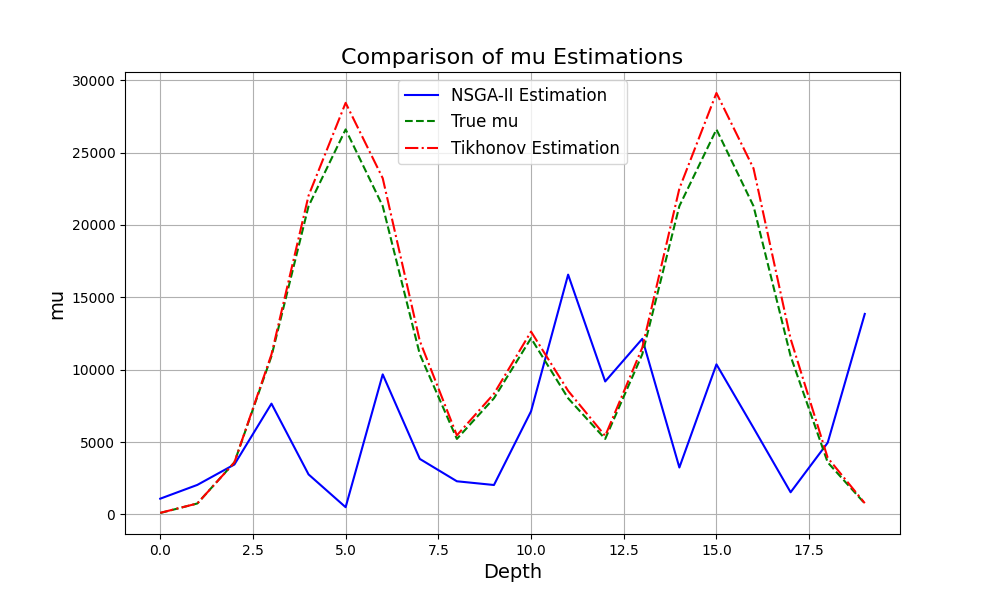
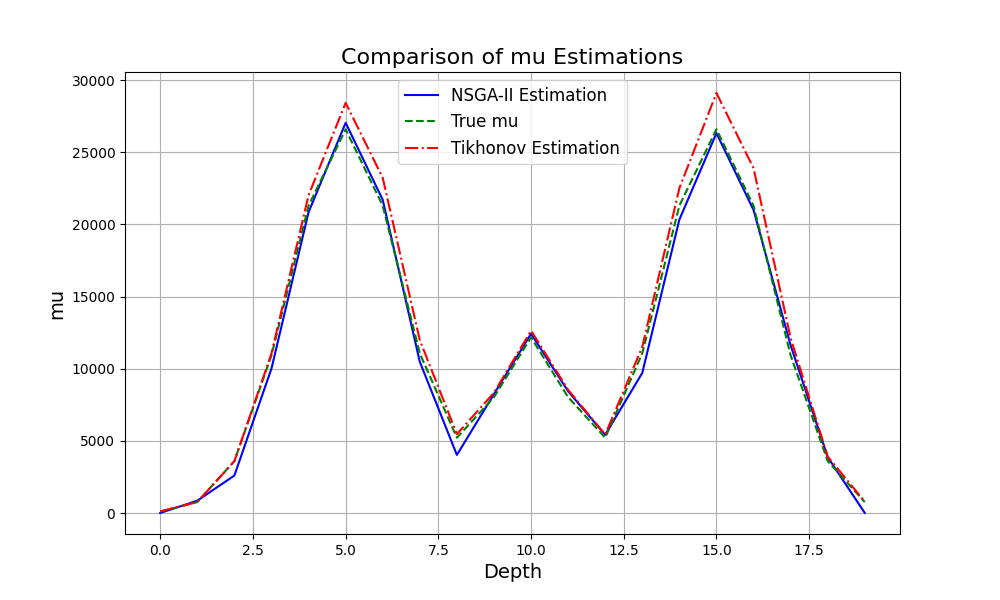
nsga me

diff --git a/simulations_me.py b/simulations_me.py
@@ -1,0 +1,128 @@
+import numpy as np
+import matplotlib.pyplot as plt
+import csv
+from concurrent.futures import ProcessPoolExecutor, as_completed
+from tqdm import tqdm
+from External_lib.rmse import rmse
+from MO.MOP_Definition import ImageReconstructionProblem
+from MO.NSGA_II import NSGA2
+from SSM.Estimation import estimation
+from SSM.Generate_Linear_Model import generate_linear_model
+from SSM.Generate_Measurements import generate_measurements
+from SSM.Generate_SSM_Model import generate_ssm_model
+from SSM.Regularized_Estimation import regularized_estimation
+from SSM.Set_Settings import set_settings
+
+from pymoo.algorithms.moo.nsga3 import NSGA3
+from pymoo.optimize import minimize
+from pymoo.util.ref_dirs import get_reference_directions
+
+# Configuración del modelo
+n_var = 20
+model, PROBE, signal = set_settings(example=1)
+model = generate_ssm_model(model, PROBE)
+MODEL = generate_linear_model(model, signal, PROBE)
+
+# Valores de sigma (σ_w²) de 10^-10 a 10^-1
+sigmas = [0.0, 1e-4, 1e-3, 1e-2, 1e-1, 1.0]
+num_simulations = 1
+
+# Para almacenar los resultados
+avg_rmse_lsq = []
+avg_rmse_nsga2 = []
+avg_rmse_tikhonov = []
+avg_rmse_tikhonov_nsga = []
+
+# Función que corre una simulación
+def run_simulation(i, sigma):
+    # Generar mediciones con el ruido correspondiente
+    SIGNAL = generate_measurements(signal, MODEL, sigma)
+    
+    # MO con NSGA-III
+    problem = ImageReconstructionProblem(MODEL=MODEL, PROBE=PROBE, SIGNAL=SIGNAL, n_var=n_var)
+    # Crear las direcciones de referencia para la optimización
+    
+    nsga2 = NSGA2(generations=500,population_size=100, mutation_rate=0.8, problem=problem)
+
+
+    best_individual_nsga2 = min(nsga2.P_t, key=lambda p: p.values[0])
+    d_est_nsga = best_individual_nsga2.point
+    # Encontrar el índice de la solución con el menor valor en el objetivo 1
+    
+    mu_est_nsga = problem.mo_estimation(d_est_nsga.reshape(20,1))
+    
+    # LSQ
+    ESTIMATION_RESULTS = estimation(MODEL, SIGNAL)
+    mu_est_lsq = ESTIMATION_RESULTS.mu
+
+    # Tikhonov
+    d_est_tikh = regularized_estimation(MODEL, SIGNAL, dim=1).reshape(n_var, 1)
+    mu_est_tikh = problem.mo_estimation(d_est_tikh.reshape(20,1))
+
+    #Thikonov and NSGA
+    problem = ImageReconstructionProblem(MODEL=MODEL, PROBE=PROBE, SIGNAL=SIGNAL, n_var=n_var, tikhonov_aprox=d_est_tikh)
+    
+    nsga2 = NSGA2(generations=500,population_size=100, mutation_rate=0.8, problem=problem)
+
+    best_individual_nsga2 = min(nsga2.P_t, key=lambda p: p.values[0])
+    d_est_nsga = best_individual_nsga2.point
+    
+    mu_est_tikh_nsga = problem.mo_estimation(d_est_nsga.reshape(20,1))
+    
+
+    # Calcular RMSE para cada método
+    rmse_lsq = rmse(PROBE.mu, mu_est_lsq)
+    rmse_nsga2 = rmse(PROBE.mu, mu_est_nsga)
+    rmse_tikhonov = rmse(PROBE.mu, mu_est_tikh)
+    rmse_tikhonov_nsga = rmse(PROBE.mu, mu_est_tikh_nsga)
+
+    return (rmse_lsq, rmse_nsga2, rmse_tikhonov, rmse_tikhonov_nsga)
+
+
+# Ejecutar simulaciones en paralelo con barra de progreso
+with open("results.csv", mode='w', newline='') as file:
+    writer = csv.writer(file)
+    writer.writerow(["sigma", "lse", "nsga2", "tikhonov", "tikhonov_nsga"])
+    
+    for sigma in sigmas:
+        rmse_lsq_list = []
+        rmse_nsga2_list = []
+        rmse_tikhonov_list = []
+        rmse_tikhonov_nsga_list = []
+        
+        # Crear el pool de procesos
+        with ProcessPoolExecutor() as executor:
+            # Usar tqdm para visualizar el progreso
+            futures = [executor.submit(run_simulation, i, sigma) for i in range(num_simulations)]
+            
+            # tqdm as_completed para mostrar progreso de las simulaciones completadas
+            for future in tqdm(as_completed(futures), total=num_simulations, desc=f"Simulaciones para sigma={sigma}"):
+                rmse_lsq, rmse_nsga2, rmse_tikhonov, rmse_tikhonov_nsga = future.result()
+                rmse_lsq_list.append(rmse_lsq)
+                rmse_nsga2_list.append(rmse_nsga2)
+                rmse_tikhonov_list.append(rmse_tikhonov)
+                rmse_tikhonov_nsga_list.append(rmse_tikhonov_nsga)
+
+        # Promediar los RMSE de las simulaciones
+        avg_rmse_lsq.append(np.mean(rmse_lsq_list))
+        avg_rmse_nsga2.append(np.mean(rmse_nsga2_list))
+        avg_rmse_tikhonov.append(np.mean(rmse_tikhonov_list))
+        avg_rmse_tikhonov_nsga.append(np.mean(rmse_tikhonov_nsga_list))
+
+        writer.writerow([sigma, avg_rmse_lsq[-1], avg_rmse_nsga2[-1], avg_rmse_tikhonov[-1], avg_rmse_tikhonov_nsga[-1]])    
+
+# Graficar los resultados
+plt.figure()
+plt.plot(sigmas, avg_rmse_lsq, label='LSQ', marker='o')
+plt.plot(sigmas, avg_rmse_nsga2, label='NSGA-II', marker='x')
+plt.plot(sigmas, avg_rmse_tikhonov, label='Tikhonov', marker='s')
+plt.plot(sigmas, avg_rmse_tikhonov_nsga, label='Tikhonov + NSGA-III', marker='d')
+plt.xscale('log')
+plt.yscale('log')
+plt.xlabel(r'$\sigma_w^2$')
+plt.ylabel('Average RMSE')
+plt.legend()
+plt.grid(True)
+
+# Guardar la gráfica
+plt.savefig("img/impact_of_noise_on_rmse_me.png")

diff --git a/NSGA_me.py b/NSGA_me.py
@@ -8,6 +8,7 @@ from SSM.Generate_Measurements import generate_measurements
 from SSM.Generate_SSM_Model import generate_ssm_model
 from SSM.Set_Settings import set_settings
 from SSM.Regularized_Estimation import regularized_estimation
+from MO.NSGA_II import NSGA2
 import numpy as np
 from pymoo.core.evaluator import Evaluator
 from pymoo.operators.crossover.sbx import SBX
@@ -15,7 +16,7 @@ from pymoo.operators.mutation.pm import PolynomialMutation
 from pymoo.operators.crossover.ux import UniformCrossover
 
 
-from MO.MOP_Definition_Pymoo import ImageReconstructionProblem
+from MO.MOP_Definition import ImageReconstructionProblem
 from MO.custom_crossover import CustomCrossover
 from MO.custom_mutation import CustomMutation
 
@@ -33,37 +34,16 @@ n_var = 20
 tikhonov_aprox = regularized_estimation(MODEL, SIGNAL, dim=1).reshape(n_var)  # Asegurarse de que sea un vector de una dimensión
 
 
-problem = ImageReconstructionProblem(MODEL, PROBE, SIGNAL, n_var, tikhonov_aprox=None)
+problem = ImageReconstructionProblem(MODEL, PROBE, SIGNAL, n_var, tikhonov_aprox=tikhonov_aprox)
 
-# Crear las direcciones de referencia para la optimización
-ref_dirs = get_reference_directions("das-dennis", problem.n_obj, n_partitions=15)
+nsga2 = NSGA2(generations=500,population_size=100, mutation_rate=0.8, problem=problem)
 
-# Crear el objeto del algoritmo
-algorithm = NSGA3(pop_size=100, 
-                  ref_dirs=ref_dirs,
-                  crossover=CustomCrossover(0.5),
-                  mutation=CustomMutation(0.8, 500),
-                  eliminate_duplicates=True)
+x = [individual.values[0] for individual in nsga2.P_t]
+y = [individual.values[1] for individual in nsga2.P_t]
 
+best_individual_nsga2 = min(nsga2.P_t, key=lambda p: p.values[0])
+best_solution = best_individual_nsga2.point
 
-
-# Ejecutar la optimización
-res = minimize(problem,
-               algorithm,
-               seed=1,
-               termination=('n_gen',500),
-               verbose=True) 
-
-# Acceder a las soluciones y valores de las funciones objetivo
-solutions = res.X
-objective_values = res.F
-
-# Encontrar el índice de la solución con el menor valor en el objetivo 1
-min_index = np.argmin(objective_values[:, 0])
-
-# Obtener la solución correspondiente a ese índice
-best_solution = solutions[min_index]
-best_objective_values = objective_values[min_index]
 
 if np.allclose(best_solution, tikhonov_aprox, atol=1e-10):
     print('The best solution is the Tikhonov approximation')
@@ -85,8 +65,14 @@ plt.title('Comparison of mu Estimations', fontsize=16)
 plt.legend(fontsize=12)
 plt.grid(True)
 
-plt.savefig('img/nsga2_pro/mu_est_nsga2.png')
+plt.savefig('img/nsga2_pro/mu_est_nsga2_me.png')
 plt.close()
 
-# Visualizar el frente de Pareto
-Scatter().add(res.F).show().save('pareto_front.png')
+plt.figure()
+plt.scatter(x, y, c='red')
+plt.xlabel('f1')
+plt.ylabel('f2')
+plt.savefig('pareto_front_me.png')
+
+# # Visualizar el frente de Pareto
+# Scatter().add(res.F).show().save('pareto_front.png')

diff --git a/MO/MOP_Definition_Pymoo.py b/MO/MOP_Definition_Pymoo.py
@@ -8,13 +8,13 @@ class ImageReconstructionProblem(Problem):
         self.PROBE = PROBE
         self.SIGNAL = SIGNAL
         self.n_var = 20 if n_var is None else n_var
-        self.n_obj = 3  # Cambiar a 3 si añades un tercer objetivo
+        self.n_obj = 2  # Cambiar a 3 si añades un tercer objetivo
         if tikhonov_aprox is not None:
             tikhonov_aprox = tikhonov_aprox.flatten()
             xl = np.maximum(0, tikhonov_aprox - 1000)  # Asegurar positividad
             xu = tikhonov_aprox + 100
         else:
-            xl = 0 # Establecer límite inferior en 0 para positividad
+            xl = 750 # Establecer límite inferior en 0 para positividad
             xu = 25000
         Problem.__init__(self, n_var=self.n_var, n_obj=self.n_obj, n_constr=0, xl=xl, xu=xu)
         
@@ -28,10 +28,10 @@ class ImageReconstructionProblem(Problem):
 
     
 
-    def f3(self, x):
+    def f2(self, x):
         return np.linalg.norm(x, ord=2)
     
-    def f2(self, x):
+    def f3(self, x):
         diffs = np.diff(x, axis=0)
         smoothness_penalty = np.sum(diffs ** 2)
         return smoothness_penalty
@@ -54,7 +54,7 @@ class ImageReconstructionProblem(Problem):
         f2_values_normalized = f2_values / f2_max if f2_max != 0 else f2_values
         f3_values_normalized = f3_values / f3_max if f3_max != 0 else f3_values
         
-        out["F"] = np.column_stack([f1_values_normalized, f2_values_normalized, f3_values_normalized])
+        out["F"] = np.column_stack([f1_values_normalized, f2_values_normalized])
 
 
     def mo_estimation(self, d_est):

diff --git a/MO/MOP_Definition.py b/MO/MOP_Definition.py
@@ -12,7 +12,14 @@ class ImageReconstructionProblem(Problem):
         self.SIGNAL = SIGNAL
         self.n_var = 20 if n_var is None else n_var
         self.n_obj = 2
-        Problem.__init__(self, n_var=self.n_var, n_obj=self.n_obj, n_constr=0, xl=800, xu=2000)
+        if tikhonov_aprox is not None:
+            tikhonov_aprox = tikhonov_aprox.flatten()
+            xl = np.maximum(0, tikhonov_aprox - 1000)  # Asegurar positividad
+            xu = tikhonov_aprox + 100
+        else:
+            xl = 750 # Establecer límite inferior en 0 para positividad
+            xu = 2000
+        Problem.__init__(self, n_var=self.n_var, n_obj=self.n_obj, n_constr=0, xl=xl, xu=xu)
         
     def f1(self, x):
         if self.b is not None:
@@ -24,12 +31,13 @@ class ImageReconstructionProblem(Problem):
         return squared
     
     def f2(self, x):
-        return -np.linalg.norm(x, ord=2)
+        return np.linalg.norm(x, ord=2)
 
     
     def evaluate(self, x):
         x = x.reshape(self.n_var, 1)
-        return np.array([self.f1(x), self.f2(x)])
+    
+        return np.array([self.f1(x)/40, self.f2(x)/50000])
     
     def mo_estimation(self, d_est):
         mu_est_mo = np.zeros(self.MODEL.Nd)

diff --git a/MO/custom_mutation.py b/MO/custom_mutation.py
@@ -7,13 +7,14 @@ class CustomMutation(Mutation):
         super().__init__()
         self.prob = prob
         self.max_generations = max_generations
+        self.generation = 0
 
     def _do(self, problem, X, **kwargs):
-        generation = kwargs.get("generation", 1)  # Pasar la generación actual si está disponible
+        self.generation += 0.5
 
         for i in range(X.shape[0]):  # Iterar sobre cada individuo
             if np.random.rand() < self.prob:
-                mutation_magnitude = 1e3 * (1 - generation / self.max_generations)
+                mutation_magnitude = 10000 * (1 - self.generation / self.max_generations)
                 for j in range(X.shape[1]):  # Iterar sobre cada gen
                     direction = np.random.uniform(0, 1)
                     if direction < 0.5:

diff --git a/MO/NSGA_II.py b/MO/NSGA_II.py
@@ -109,7 +109,7 @@ class NSGA2:
 
     def mutate(self, individual, mutation_rate, generation, max_generations):
         point = individual.point.copy()
-        mutation_magnitude = 1 * (1 - generation / max_generations)
+        mutation_magnitude = 2000 * (1 - generation / max_generations)
 
         if np.random.rand() < mutation_rate:
             for i in range(len(point)):
